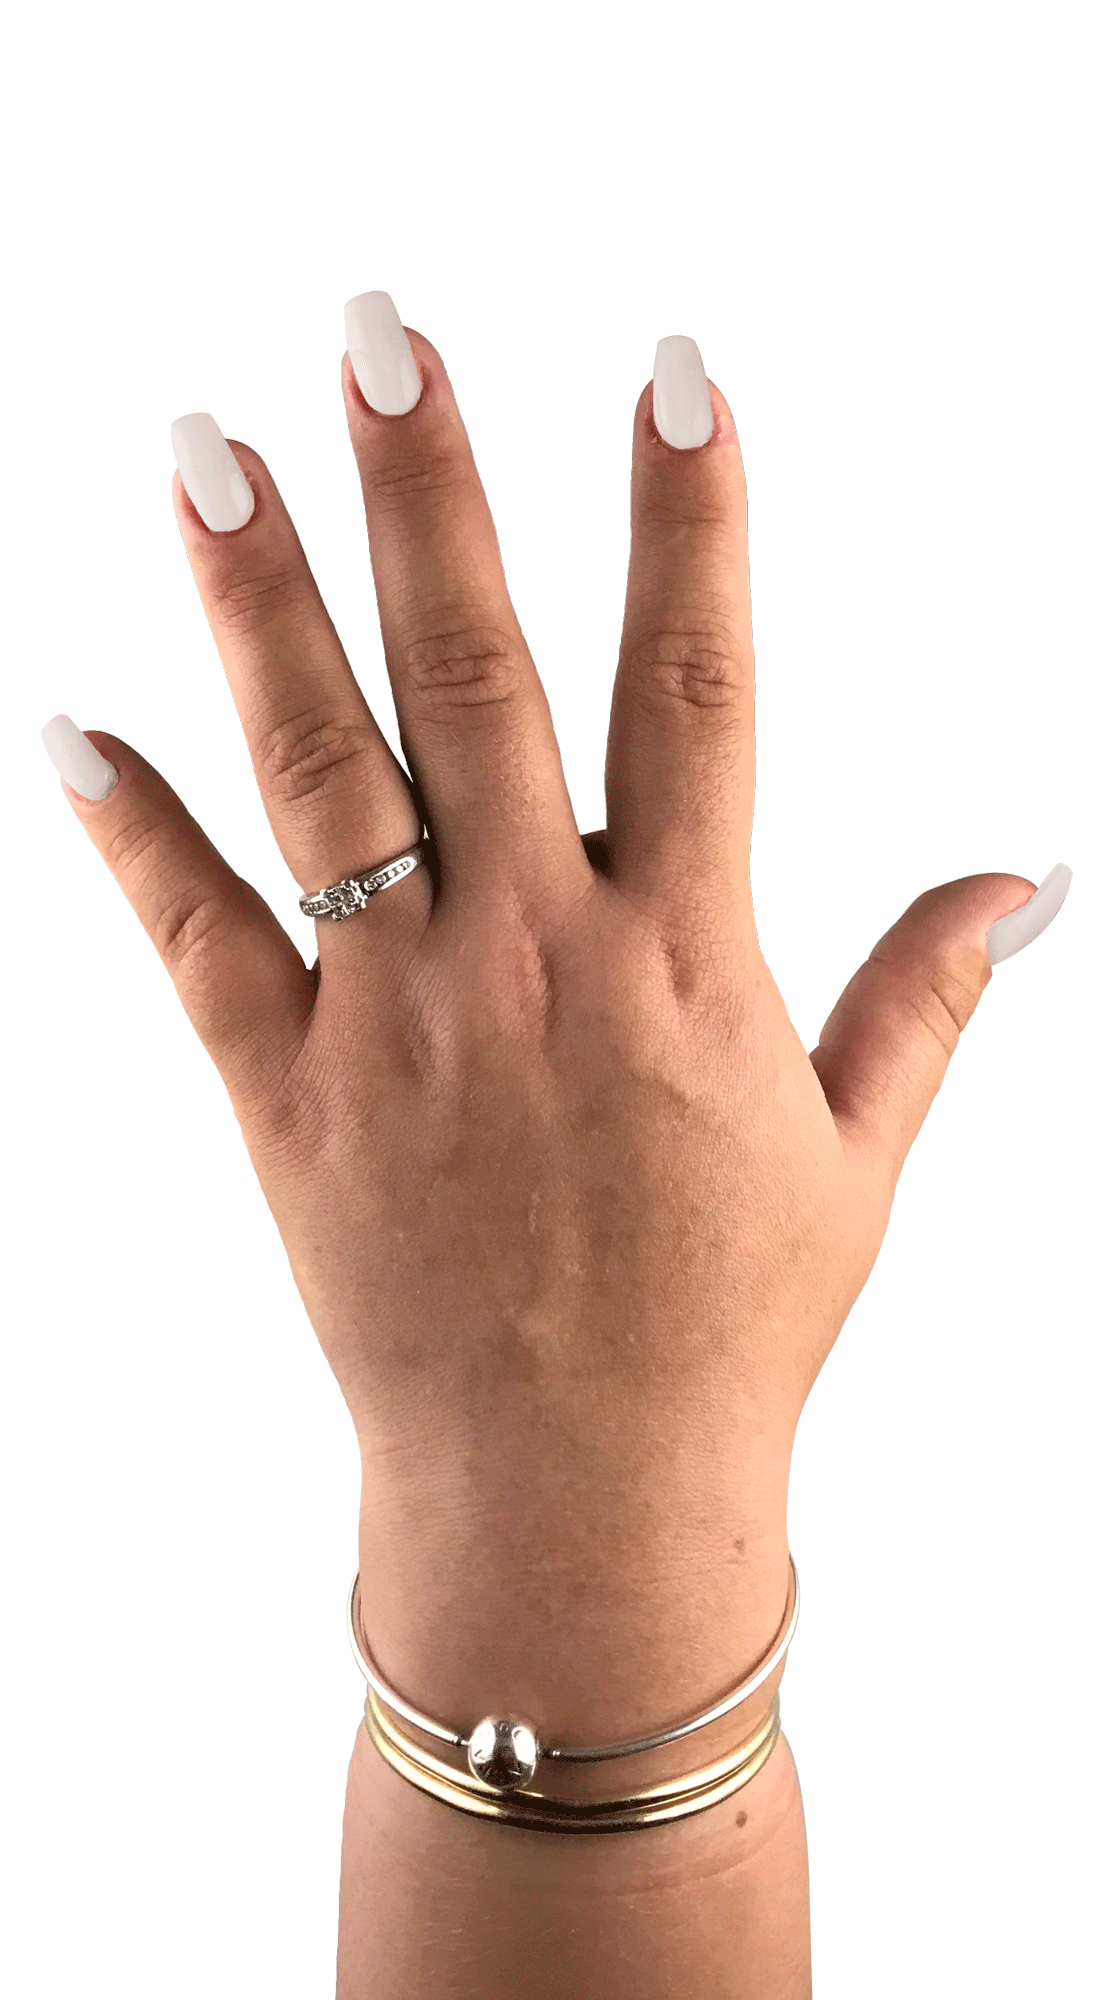
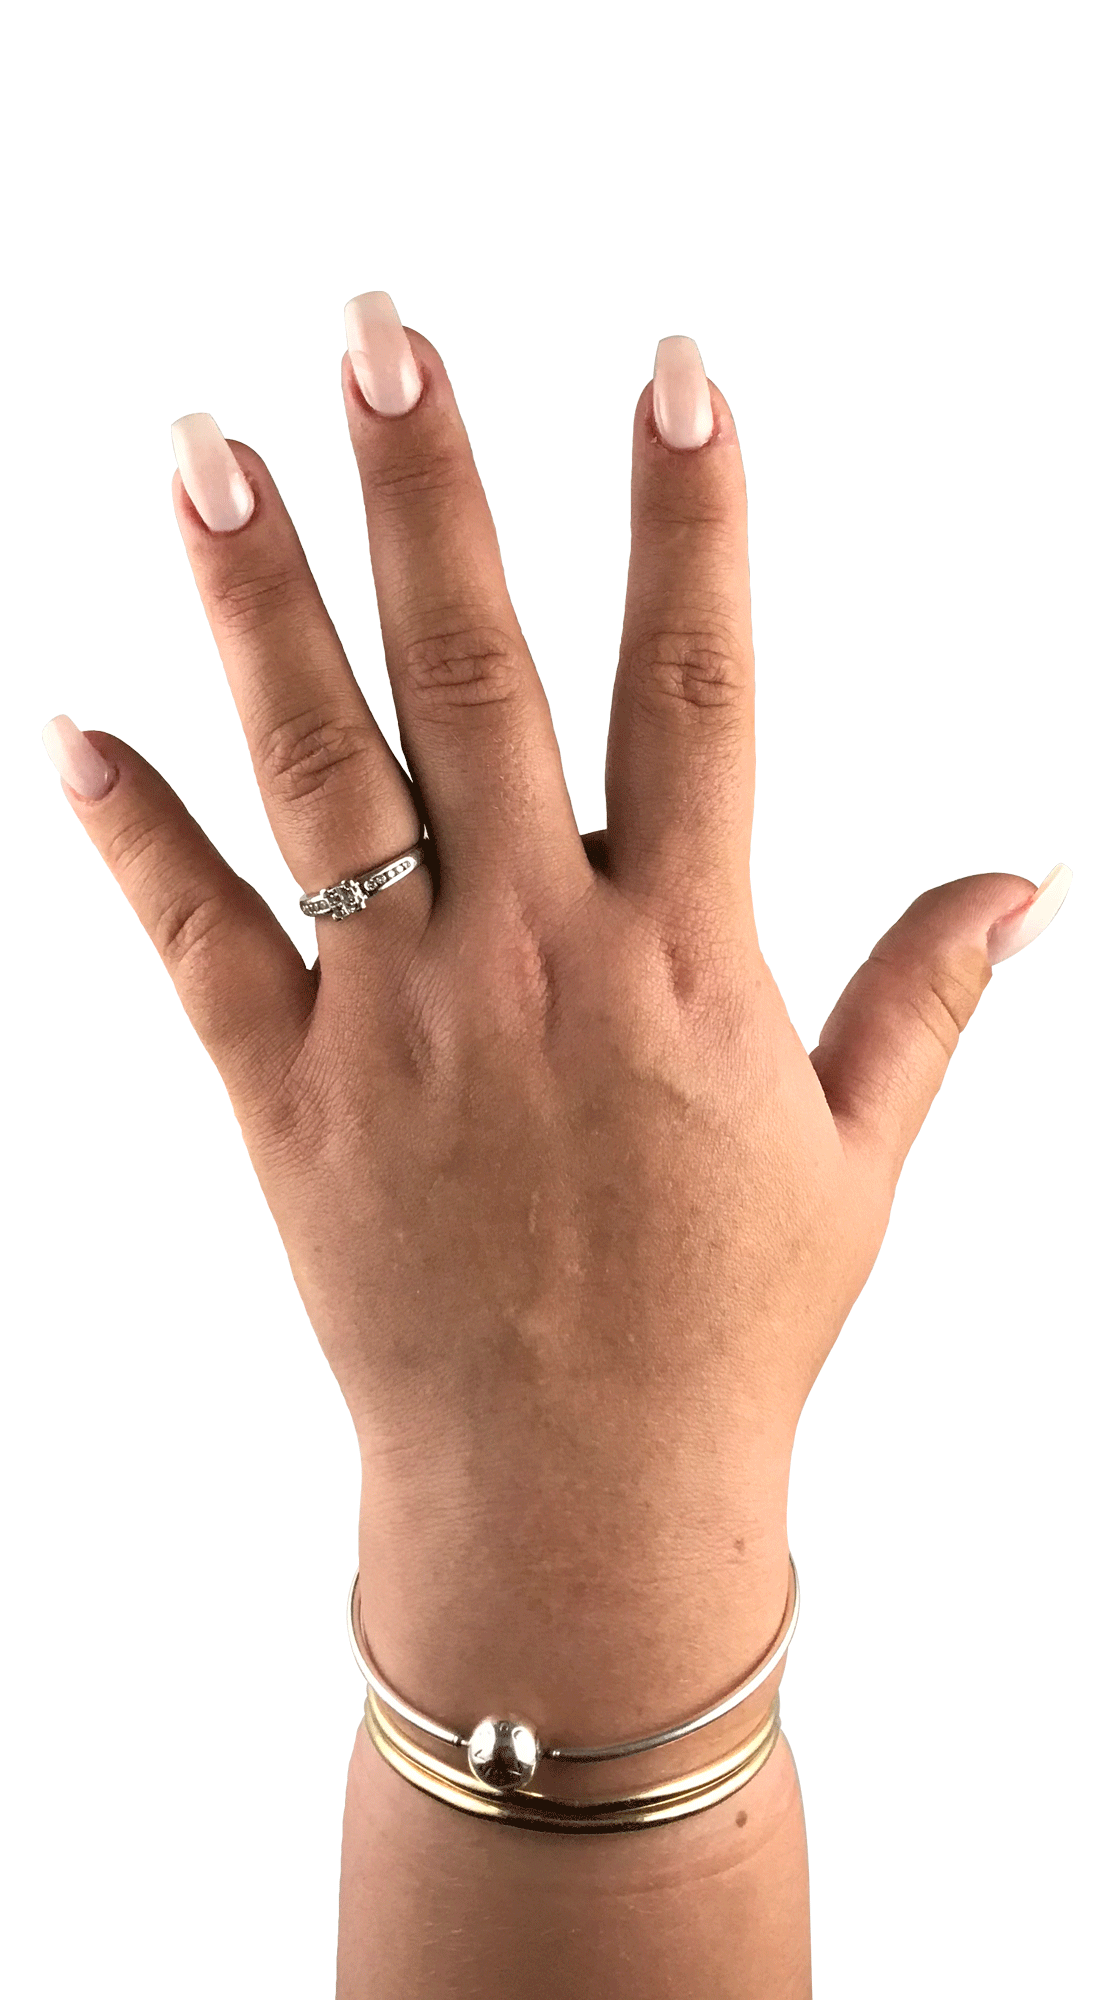
more visual combinations and made good progress in making the application responsive

diff --git a/src/App.js b/src/App.js
@@ -128,7 +128,7 @@ const colourList = [
     name: 'Eve',
     class: 'colour',
     hex: '#b59f96',
-    natural: '/Assets/naturals_snowqueen.png',
+    natural: '/Assets/hand_n_eve.png',
     square: '/Assets/hand_e_eve_square.png',
     round: '/Assets/hand_e_eve_round.png',
     stiletto: '/Assets/hand_e_eve_stiletto.png',
@@ -139,7 +139,7 @@ const colourList = [
     name: 'Gossip',
     class: 'colour',
     hex: '#e9dce5',
-    natural: '/Assets/naturals_snowqueen.png',
+    natural: '/Assets/hand_n_gossip.png',
     square: '/Assets/hand_e_gossip_square.png',
     round: '/Assets/hand_e_gossip_round.png',
     stiletto: '/Assets/hand_e_gossip_stiletto.png',
@@ -150,7 +150,7 @@ const colourList = [
     name: 'V07',
     class: 'colour',
     hex: '#f2deda',
-    natural: '/Assets/naturals_snowqueen.png',
+    natural: '/Assets/hand_n_v07.png',
     square: '/Assets/hand_e_v07_square.png',
     round: '/Assets/hand_e_v07_round.png',
     stiletto: '/Assets/hand_e_v07_stiletto.png',
@@ -161,7 +161,7 @@ const colourList = [
     name: 'Teddy',
     class: 'colour',
     hex: '#dbaca6',
-    natural: '/Assets/naturals_snowqueen.png',
+    natural: '/Assets/hand_n_teddy.png',
     square: '/Assets/hand_e_teddy_square.png',
     round: '/Assets/hand_e_teddy_round.png',
     stiletto: '/Assets/hand_e_teddy_stiletto.png',
@@ -172,7 +172,7 @@ const colourList = [
     name: 'Baby',
     class: 'colour',
     hex: '#dcadbe',
-    natural: '/Assets/naturals_snowqueen.png',
+    natural: '/Assets/hand_n_baby.png',
     square: '/Assets/hand_e_baby_square.png',
     round: '/Assets/hand_e_baby_round.png',
     stiletto: '/Assets/hand_e_baby_stiletto.png',
@@ -183,7 +183,7 @@ const colourList = [
     name: 'June',
     class: 'colour',
     hex: '#e7cfe2',
-    natural: '/Assets/naturals_snowqueen.png',
+    natural: '/Assets/hand_n_june.png',
     square: '/Assets/hand_e_june_square.png',
     round: '/Assets/hand_e_june_round.png',
     stiletto: '/Assets/hand_e_june_stiletto.png',
@@ -194,7 +194,7 @@ const colourList = [
     name: 'Marilyn',
     class: 'colour',
     hex: '#e7b6d0',
-    natural: '/Assets/naturals_snowqueen.png',
+    natural: '/Assets/hand_n_marilyn.png',
     square: '/Assets/hand_e_marilyn_square.png',
     round: '/Assets/hand_e_marilyn_round.png',
     stiletto: '/Assets/hand_e_marilyn_stiletto.png',
@@ -205,7 +205,7 @@ const colourList = [
     name: 'Hollywood Star',
     class: 'colour',
     hex: '#a65d95',
-    natural: '/Assets/naturals_snowqueen.png',
+    natural: '/Assets/hand_n_hollywoodstar.png',
     square: '/Assets/hand_e_hollywoodstar_square.png',
     round: '/Assets/hand_e_hollywoodstar_round.png',
     stiletto: '/Assets/hand_e_hollywoodstar_stiletto.png',

diff --git a/src/App.css b/src/App.css
@@ -55,6 +55,22 @@ button:focus {
   bottom: 0;
   overflow: scroll;
 }
+@media screen and (max-width: 575px) {
+  .sideBarContainer {
+    position: absolute;
+    bottom: 0;
+    left: 0;
+    height: 20vh;
+    width: 100%;
+    border: solid 10px #fff;
+    overflow: auto;
+    white-space: nowrap;
+
+  }
+  div.sideBarContainer .sideBar {
+    display: inline-block;
+  }
+}
 
 .sideBar {
   height: auto;
@@ -68,6 +84,19 @@ button:focus {
 .sideBar, ul {
   list-style: none;
   overflow: scroll;
+}
+@media screen and (max-width: 575px) {
+  .sideBar {
+    width: 50vw;
+    height: 100%;
+    bottom: 0;
+    left: 0;
+    border-bottom: 0;
+    overflow-y: hidden;
+  }
+  #handPic {
+    height: 455px;
+  }
 }
 
 .label {
@@ -85,6 +114,13 @@ button:focus {
   bottom: 0px;
   position: fixed;
   left: 0;
+}
+@media screen and (max-width: 575px) {
+  .bottomBar {
+    top: 0;
+    border-bottom: solid 10px #fff;
+    border-top: 0;
+  }
 }
 
 .slidecontainer {
@@ -114,7 +150,17 @@ button:focus {
   bottom: 9vh;
   z-index: 0;
   /* background-image: linear-gradient(to bottom right, orange, pink); */
-  border: solid #fff 5px;
+}
+@media screen and (max-width: 575px) {
+  .visualiser {
+    position: absolute;
+    height: 60vh;
+    width: 100%;
+    top: 9vh;
+  }
+  #handPic {
+    height: 503px;
+  }
 }
 
 #handPic {
